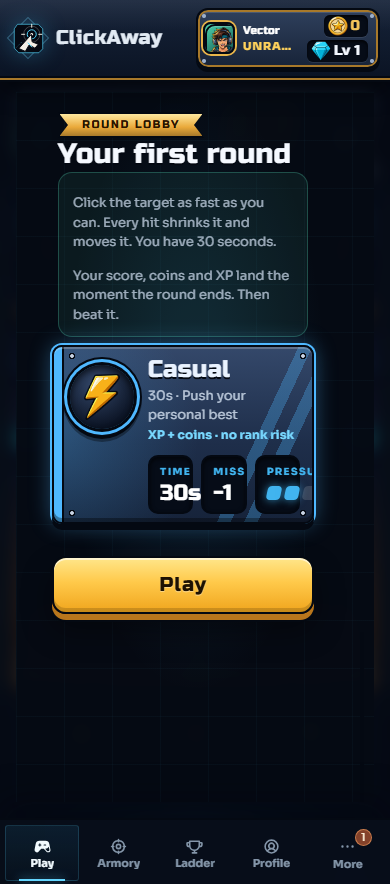
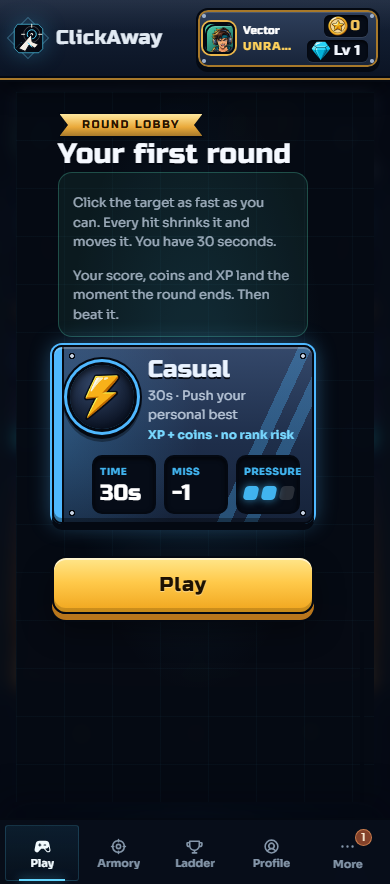
1.) Problem: On phones, the coaching text pushed the Start button off screen for the Practice and Casual steps, and the "Pressure" label was cut off on the selected mode card. 2.) Solution: Coached rounds show only their own mode card, and the card's stat row uses its full width so every label fits.

Changed region(s): [[0.2154, 0.4887, 0.5231, 0.5803], [0.5538, 0.4887, 0.8, 0.5803]]

diff --git a/src/features/game/hooks/useGameScreenController.js b/src/features/game/hooks/useGameScreenController.js
@@ -1643,8 +1643,9 @@ export function useGameScreenController({
             instruction: gameOnboardingStep.instruction,
             note: gameOnboardingStep.note,
             startLabel: gameOnboardingStep.startLabel,
-            // The first round shows only its own mode; the locked ones are noise.
-            singleMode: gameOnboardingStep.stepNumber === null,
+            // Coached rounds lock the mode, so only that mode's card is shown;
+            // the locked ones are noise and push Start off small screens.
+            singleMode: true,
           }
         : null,
       sessionStats: sessionStats.rounds > 0 ? sessionStats : null,

diff --git a/src/styles/game-lobby.css b/src/styles/game-lobby.css
@@ -645,3 +645,11 @@
     position: static; display: block; width: auto; height: auto;
     overflow: visible; clip-path: none; white-space: normal;
 }
+
+/* Phones: the stat tiles were squeezed beside the emblem, clipping "Pressure". */
+@media (max-width: 600px) {
+    /* The emblem only occupies the card's top, so the stat row can use the full width. */
+    .lobbyModeRail .lobbyModeBrief { margin-left: -56px; }
+    .lobbyModeRail .lobbyModeBriefStat { padding: 8px 6px; }
+    .lobbyModeBriefStat small { letter-spacing: 0.04em; }
+}

diff --git a/docs/feature-improvement/009-first-round-first.md b/docs/feature-improvement/009-first-round-first.md
@@ -25,3 +25,9 @@ Excluded: the Armory tour itself, Practice/Casual coaching content, rewards. Rep
 - Mode locked to Casual, single mode card, "Play" button; badges hidden until a round exists (lobby and nav).
 - Coach text made visible (`game-lobby.css`); the repeated "First round" label dropped.
 - Checks: unit (onboarding steps), controller tests (new player / returning / duel link), lint. Shots: shots/009/after-*.
+
+## Review (Sol, pass with issues) and repair 1
+- Confirmed: Play fully on screen at 1440 and 390 with no scrolling; first round completes; no Armory pull before it; returning players and real duel links unaffected; badges and the Armory tour appear after the first round.
+- Regression caused here: making coach text visible pushed Start below the fold on phones for the Practice and Casual coaching steps. Repair: every coached step shows only its own (locked) mode card. Measured Start bottoms at 390×844: 610, 697, 657 (nav starts at 784).
+- Already there, fixed in the same repair: "Pressure" was clipped on the selected mode card on phones (tiles were 48px wide beside the emblem). The stat row now uses the card's full width; all three tiles measured inside the card.
+- Already there, not fixed: on phones the Armory tour's second step puts its controls far below the screen. More visible now that the tour follows the first round; a candidate for the next trial.
